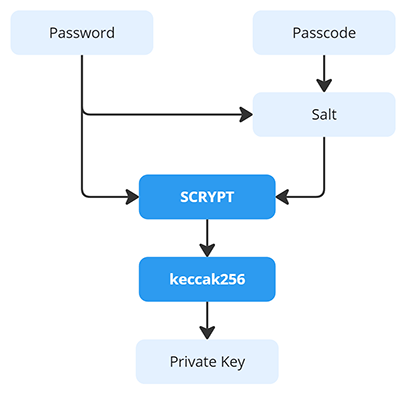
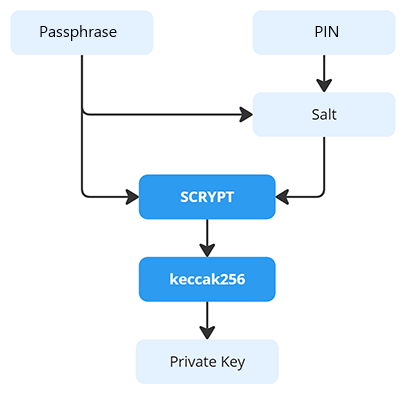
Add ZXCVBN and Strength meter for passphrase and PIN *** (#42)
* add zxcvbn, strength-meter ***

* update diagram

* update styling of strength-meter

* add min-length validation for passphrase

* add security tips link

* update README

Changed region(s): [[0.0887, 0.0609, 0.2956, 0.1218], [0.7094, 0.0609, 0.8867, 0.1218]]

diff --git a/src/pages/Signin/index.jsx b/src/pages/Signin/index.jsx
@@ -1,9 +1,9 @@
 import { useContext, useEffect, useMemo, useState } from "react";
 import { generateHash, parseToken } from "@mybucks.online/core";
 import styled from "styled-components";
+import zxcvbn from "zxcvbn";
 
 import Button from "@mybucks/components/Button";
-import Checkbox from "@mybucks/components/Checkbox";
 import { Box } from "@mybucks/components/Containers";
 import Input from "@mybucks/components/Input";
 import { Label } from "@mybucks/components/Label";
@@ -11,6 +11,7 @@ import Link from "@mybucks/components/Link";
 import Modal from "@mybucks/components/Modal";
 import PasswordToggleIcon from "@mybucks/components/PasswordToggleIcon";
 import Progress from "@mybucks/components/Progress";
+import StrengthMeter from "@mybucks/components/StrengthMeter";
 import { H1 } from "@mybucks/components/Texts";
 import { StoreContext } from "@mybucks/contexts/Store";
 import {
@@ -94,18 +95,6 @@ const Caption = styled.p`
   `}
 `;
 
-const Checkboxes = styled.div`
-  margin-block: ${({ theme }) => `${theme.sizes.base} ${theme.sizes.x3s}`};
-  display: flex;
-  flex-wrap: wrap;
-  & > div {
-    min-width: 50%;
-  }
-  ${media.sm`
-    flex-direction: column;
-  `}
-`;
-
 const ProgressWrapper = styled.div`
   background: ${({ theme }) => theme.colors.gray25};
   display: flex;
@@ -133,6 +122,10 @@ const Notice = styled.p`
 
 const PasswordInputWrapper = styled.div`
   position: relative;
+`;
+
+const CompactInput = styled(Input)`
+  margin-bottom: ${({ theme }) => theme.sizes.x3s};
 `;
 
 const ToggleButton = styled.button`
@@ -171,6 +164,18 @@ const TermsNotice = styled.p`
   }
 `;
 
+const SecurityHint = styled.p`
+  text-align: center;
+  font-size: ${({ theme }) => theme.sizes.xs};
+  font-weight: ${({ theme }) => theme.weights.regular};
+  color: ${({ theme }) => theme.colors.gray200};
+  margin-top: ${({ theme }) => theme.sizes.xl};
+
+  a {
+    font-size: inherit;
+  }
+`;
+
 const SignIn = () => {
   const { setup } = useContext(StoreContext);
 
@@ -187,44 +192,29 @@ const SignIn = () => {
   const [passphraseFocused, setPassphraseFocused] = useState(false);
   const [pinFocused, setPinFocused] = useState(false);
 
-  const hasMinLengthPassphrase = useMemo(
-    () => passphrase.length >= PASSPHRASE_MIN_LENGTH,
-    [passphrase]
-  );
-  const hasLowercase = useMemo(() => /[a-z]/.test(passphrase), [passphrase]);
-  const hasUppercase = useMemo(() => /[A-Z]/.test(passphrase), [passphrase]);
-  const hasNumbers = useMemo(() => /\d/.test(passphrase), [passphrase]);
-  const hasSymbol = useMemo(
-    () => /[ !"#$%&'()*+,\-./:;<=>?@[\\\]^_`{|}~]/.test(passphrase),
-    [passphrase]
-  );
-  const hasValidPinLength = useMemo(
-    () => pin.length >= PIN_MIN_LENGTH,
-    [pin]
-  );
+  const passphraseStrength = useMemo(() => {
+    if (!passphrase) return 0;
+    const { score } = zxcvbn(passphrase);
+    if (passphrase.length < PASSPHRASE_MIN_LENGTH) {
+      return Math.min(score, 2);
+    }
+    return score;
+  }, [passphrase]);
+
+  const pinStrength = useMemo(() => {
+    if (!pin || pin.length < PIN_MIN_LENGTH) return 0;
+    const { score } = zxcvbn(pin);
+    return score < 2 ? score : 2;
+  }, [pin]);
 
   const hasInvalidInput = useMemo(
     () =>
       disabled ||
       !passphrase ||
       !pin ||
-      !hasMinLengthPassphrase ||
-      !hasLowercase ||
-      !hasUppercase ||
-      !hasNumbers ||
-      !hasSymbol ||
-      !hasValidPinLength,
-    [
-      passphrase,
-      pin,
-      disabled,
-      hasMinLengthPassphrase,
-      hasLowercase,
-      hasUppercase,
-      hasNumbers,
-      hasSymbol,
-      hasValidPinLength,
-    ]
+      passphraseStrength < 3 ||
+      pinStrength < 1,
+    [passphrase, pin, disabled, passphraseStrength, pinStrength]
   );
 
   const unknownFact = useMemo(
@@ -305,7 +295,7 @@ const SignIn = () => {
           <div>
             <Label htmlFor="passphrase">Passphrase</Label>
             <PasswordInputWrapper>
-              <Input
+              <CompactInput
                 id="passphrase"
                 type={showPassphrase ? "text" : "password"}
                 placeholder="e.g. My-1st-car-was-a-red-Ford-2005!"
@@ -330,12 +320,13 @@ const SignIn = () => {
                 />
               </ToggleButton>
             </PasswordInputWrapper>
+            <StrengthMeter level={passphraseStrength} maxLevel={4} />
           </div>
 
           <div>
             <Label htmlFor="pin">PIN</Label>
             <PasswordInputWrapper>
-              <Input
+              <CompactInput
                 id="pin"
                 type={showPin ? "text" : "password"}
                 placeholder="e.g. 202w875"
@@ -361,29 +352,8 @@ const SignIn = () => {
                 />
               </ToggleButton>
             </PasswordInputWrapper>
+            <StrengthMeter level={pinStrength} maxLevel={2} />
           </div>
-
-          <Checkboxes>
-            <Checkbox id="uppercase" value={hasUppercase}>
-              Uppercase
-            </Checkbox>
-            <Checkbox id="lowercase" value={hasLowercase}>
-              Lowercase
-            </Checkbox>
-            <Checkbox id="number" value={hasNumbers}>
-              Number
-            </Checkbox>
-            <Checkbox id="special" value={hasSymbol}>
-              Symbol
-            </Checkbox>
-            <Checkbox id="min-length" value={hasMinLengthPassphrase}>
-              Passphrase length: {PASSPHRASE_MIN_LENGTH}~{PASSPHRASE_MAX_LENGTH}
-            </Checkbox>
-            <Checkbox id="pin-length" value={hasValidPinLength}>
-              PIN length: {PIN_MIN_LENGTH}~{PIN_MAX_LENGTH}
-            </Checkbox>
-
-          </Checkboxes>
 
           <TermsNotice>
             By clicking Open, you agree to our{" "}
@@ -400,6 +370,18 @@ const SignIn = () => {
           <Button onClick={onSubmit} disabled={hasInvalidInput} $size="block">
             Open
           </Button>
+
+          <SecurityHint>
+            Review our{" "}
+            <Link
+              href="https://docs.mybucks.online/user-guide/security-notice"
+              target="_blank"
+              rel="noopener noreferrer"
+            >
+              security tips
+            </Link>
+            .
+          </SecurityHint>
         </Box>
       </Container>
 

diff --git a/src/components/StrengthMeter.jsx b/src/components/StrengthMeter.jsx
@@ -1,0 +1,54 @@
+import styled from "styled-components";
+
+const Track = styled.div`
+  display: flex;
+  width: 100%;
+  height: 4px;
+  gap: 2px;
+  border-radius: 2px;
+  background: ${({ theme }) => theme.colors.gray100};
+  padding: 0 1px;
+  margin-bottom: ${({ theme }) => theme.sizes.xs};
+  box-sizing: border-box;
+`;
+
+const Segment = styled.div`
+  flex: 1;
+  height: 100%;
+  min-width: 0;
+  border-radius: 1px;
+  background: ${({ $filled, $tier, theme }) => {
+    if (!$filled) return "transparent";
+    if ($tier === "strong") return theme.colors.success;
+    if ($tier === "medium") return theme.colors.warning;
+    return theme.colors.error;
+  }};
+  transition: background 0.15s ease;
+`;
+
+/**
+ * Horizontal strength meter bar. Full width, narrow height.
+ * Filled segments: green at max, orange at max-1, red otherwise.
+ * @param {number} level - Current strength 0..maxLevel
+ * @param {number} maxLevel - Number of segments (e.g. 4 for passphrase, 2 for PIN)
+ */
+const StrengthMeter = ({ level = 0, maxLevel = 4 }) => {
+  const segments = Math.max(1, Math.round(maxLevel));
+  const filledCount = Math.min(Math.max(0, Math.round(level)), segments);
+  const tier =
+    filledCount >= segments
+      ? "strong"
+      : filledCount >= segments - 1
+        ? "medium"
+        : "weak";
+
+  return (
+    <Track role="meter" aria-valuenow={filledCount} aria-valuemin={0} aria-valuemax={segments}>
+      {Array.from({ length: segments }, (_, i) => (
+        <Segment key={i} $filled={i < filledCount} $tier={tier} />
+      ))}
+    </Track>
+  );
+};
+
+export default StrengthMeter;

diff --git a/src/styles/themes.js b/src/styles/themes.js
@@ -5,6 +5,7 @@ const light = {
     link: "#0171E3",
     success: "#29CC6A",
     error: "#FF5630",
+    warning: "#F59E0B",
     gray25: "#FFFFFF",
     gray50: "#F4F4F4",
     gray100: "#E9E9EA",
@@ -52,6 +53,7 @@ const dark = {
     link: "#3B9EFF",
     success: "#29CC6A",
     error: "#FF5630",
+    warning: "#F59E0B",
     gray25: "#18181A",
     gray50: "#1F1F21",
     gray100: "#2C2C2E",

diff --git a/README.md b/README.md
@@ -37,6 +37,7 @@ It fully runs on your **browser side** without using any storage or invoking any
 (This process is the same for both initial opening and all subsequent uses.)
 
 ![Sign-in](/screenshots/1.sign-in.png)
+![Sign-in](/screenshots/1.sign-in-valid.png)
 
 <p align="center">
 <img src="screenshots/2.mobile-signin.png" width="32%" alt="Sign-in">
